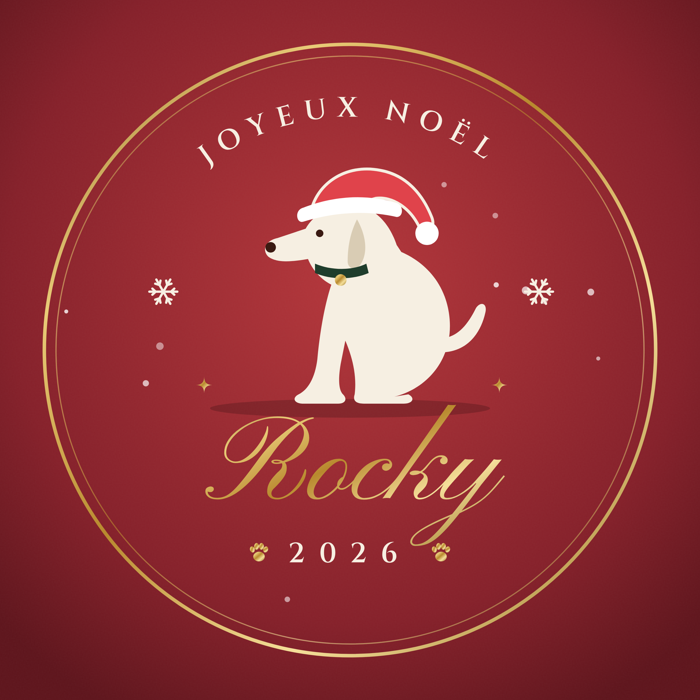
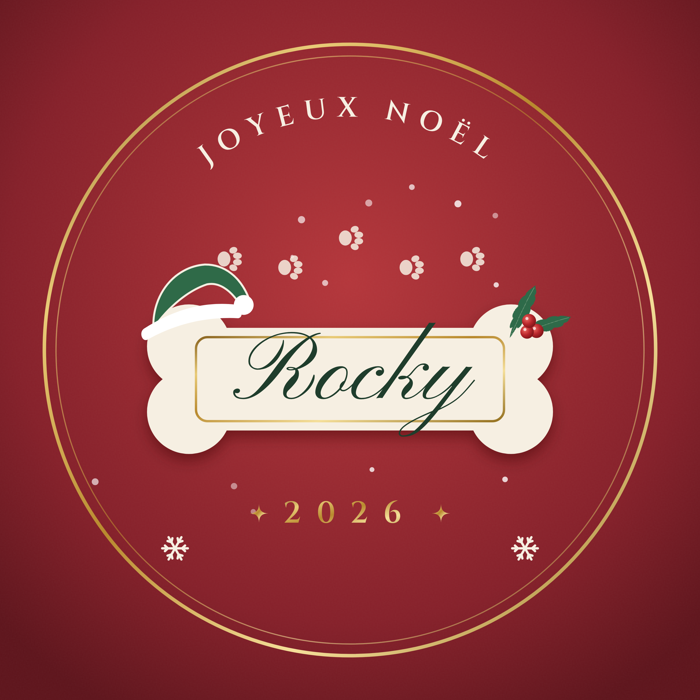
Médaillon chien : os + traces de pattes (toutes races)
Claude-Session: https://claude.ai/code/session_014GDdWm3BuH8EgZGK2oQs5J

diff --git a/designs/nouveaux/generer.js b/designs/nouveaux/generer.js
@@ -86,30 +86,35 @@ const paper = (bg) => `<rect width="600" height="600" fill="${bg}"/><rect width=
 const paw = (x, y, s, fill) => `<g transform="translate(${x} ${y}) scale(${s})" fill="${fill}"><ellipse cx="0" cy="8" rx="13" ry="11"/><ellipse cx="-15" cy="-8" rx="5.5" ry="7" transform="rotate(-20 -15 -8)"/><ellipse cx="-5.5" cy="-15" rx="5.5" ry="7.5"/><ellipse cx="5.5" cy="-15" rx="5.5" ry="7.5"/><ellipse cx="15" cy="-8" rx="5.5" ry="7" transform="rotate(20 15 -8)"/></g>`;
 const DESIGNS = {
   'medaillon-animal': { name: 'Rocky', f: n => { seed = 41;
-    let snow = ''; for (let i = 0; i < 55; i++) { const x = R(40, 560), y = R(40, 560); if (Math.hypot(x - 300, y - 300) < 250 && Math.hypot(x - 300, y - 250) > 120 && !(y > 330 && y < 500) && !(y < 215 && Math.hypot(x - 300, y - 300) > 170)) snow += `<circle cx="${x}" cy="${y}" r="${R(1.5, 3.4)}" fill="#fff" opacity="${R(.35, .85)}"/>`; }
     const C = '#f6efe2';
-    // chien assis de profil, tourné vers la gauche
-    const dog = `<g transform="translate(300 262)">
-      <path d="M38 78 C 70 70 92 40 84 2 C 78 -26 58 -40 44 -46 L 40 -52 C 34 -70 22 -84 4 -86 C -14 -88 -30 -80 -38 -66 L -62 -58 C -72 -56 -76 -48 -70 -42 C -62 -36 -48 -38 -36 -40 C -32 -30 -24 -22 -16 -18 C -22 0 -26 24 -28 46 C -30 62 -36 72 -44 76 C -50 79 -48 84 -40 84 L -10 84 C -4 84 -2 80 -6 76 C -10 72 -10 62 -8 50 L -4 30 C 2 44 6 60 4 76 C 2 82 6 84 12 84 L 46 84 C 54 84 56 79 50 76 Z" fill="${C}"/>
-      <path d="M78 40 C 100 40 112 24 116 6 C 118 -2 112 -4 108 2 C 100 18 92 26 80 28 Z" fill="${C}"/>
-      <path d="M6 -74 C 14 -60 16 -44 8 -34 C 4 -30 -2 -32 -2 -38 C -2 -50 0 -62 6 -74 Z" fill="#d9ccb4"/>
-      <circle cx="-26" cy="-62" r="3.2" fill="#3a1a12"/><circle cx="-68" cy="-50" r="4.5" fill="#3a1a12"/>
-      <path d="M-30 -36 C -16 -30 2 -30 14 -36 L 16 -28 C 2 -22 -16 -22 -30 -28 Z" fill="#1f3d2c"/><circle cx="-8" cy="-22" r="5" fill="url(#gold)"/>
-      <path d="M-34 -78 C -30 -104 -4 -122 26 -116 C 48 -112 62 -96 70 -76 C 74 -66 66 -60 60 -66 C 52 -84 36 -94 22 -92 C 8 -88 -10 -82 -34 -78 Z" fill="#e0434b" stroke="#f6efe2" stroke-width="2.5"/>
-      <path d="M-40 -84 C -14 -94 14 -96 40 -88 C 46 -86 46 -76 40 -76 C 14 -82 -14 -80 -40 -72 C -46 -70 -48 -82 -40 -84 Z" fill="#fff"/>
-      <circle cx="66" cy="-62" r="10" fill="#fff"/>
-    </g>`;
-    return `<defs><radialGradient id="vel" cx=".5" cy=".4" r=".7"><stop offset="0" stop-color="#b5363b"/><stop offset=".7" stop-color="#86202a"/><stop offset="1" stop-color="#5e141c"/></radialGradient></defs>
+    let snow = ''; for (let i = 0; i < 60; i++) { const x = R(40, 560), y = R(40, 560); if (Math.hypot(x - 300, y - 300) < 250 && !(y > 250 && y < 400) && !(y < 215 && Math.hypot(x - 300, y - 300) > 170) && !(y > 440)) snow += `<circle cx="${x}" cy="${y}" r="${R(1.5, 3.4)}" fill="#fff" opacity="${R(.35, .85)}"/>`; }
+    // traces de pattes qui traversent en arc
+    let trail = ''; for (let i = 0; i < 5; i++) { const t = i / 4, x = 196 + t * 208, y = 232 - Math.sin(t * Math.PI) * 18 + (i % 2 ? 10 : -10); trail += `<g transform="rotate(90 ${x} ${y})">${paw(x, y, .5, C + 'd9')}</g>`; }
+    // os : barre + 4 boules
+    const bx = 300, by = 325, hw = 138, hh = 44, r = 36;
+    const bone = `<g filter="url(#bsh)">
+      <rect x="${bx - hw}" y="${by - hh}" width="${hw * 2}" height="${hh * 2}" fill="${C}"/>
+      <circle cx="${bx - hw}" cy="${by - r * .78}" r="${r}" fill="${C}"/><circle cx="${bx - hw}" cy="${by + r * .78}" r="${r}" fill="${C}"/>
+      <circle cx="${bx + hw}" cy="${by - r * .78}" r="${r}" fill="${C}"/><circle cx="${bx + hw}" cy="${by + r * .78}" r="${r}" fill="${C}"/></g>
+      <rect x="${bx - hw + 6}" y="${by - hh + 8}" width="${hw * 2 - 12}" height="${hh * 2 - 16}" rx="10" fill="none" stroke="url(#gold)" stroke-width="2"/>`;
+    // bonnet posé sur la boule gauche du haut
+    const hat = `<g transform="translate(${bx - hw + 2} ${by - r * .78 - 26}) rotate(-12) scale(.85)">
+      <path d="M-40 4 C -34 -30 -6 -52 24 -48 C 44 -44 56 -28 60 -8 C 62 2 54 6 50 -2 C 44 -18 34 -28 22 -28 C 4 -26 -18 -16 -40 4 Z" fill="#2f6a48" stroke="${C}" stroke-width="2"/>
+      <path d="M-48 2 C -16 -10 16 -12 46 -2 C 52 0 52 12 46 12 C 16 4 -16 4 -48 14 C -54 16 -56 4 -48 2 Z" fill="#fff"/>
+      <circle cx="54" cy="0" r="10" fill="#fff"/></g>`;
+    const sprig = `${holly(bx + hw + 10, by - r * .78 - 30, 22, 30, '#2f6a48')}${holly(bx + hw + 30, by - r * .78 - 18, 20, 75, '#2f6a48')}${berries(bx + hw + 16, by - r * .78 - 18, 3, 6)}`;
+    return `<defs><radialGradient id="vel" cx=".5" cy=".4" r=".7"><stop offset="0" stop-color="#b5363b"/><stop offset=".7" stop-color="#86202a"/><stop offset="1" stop-color="#5e141c"/></radialGradient>
+      <filter id="bsh" x="-20%" y="-40%" width="140%" height="180%"><feDropShadow dx="0" dy="6" stdDeviation="6" flood-color="#3a0a10" flood-opacity=".45"/></filter></defs>
     <rect width="600" height="600" fill="url(#vel)"/><rect width="600" height="600" filter="url(#grain)" opacity=".6"/>
     <circle cx="300" cy="300" r="262" fill="none" stroke="url(#gold)" stroke-width="3"/><circle cx="300" cy="300" r="252" fill="none" stroke="url(#gold)" stroke-width="1" opacity=".6"/>
     ${snow}
     ${T.arc('a1', 200, true, 300)}${T.arcText('a1', 'JOYEUX NOËL', 24, C, .35)}
-    <ellipse cx="300" cy="350" rx="120" ry="8" fill="#000" opacity=".18"/>
-    ${dog}
-    ${T.script(300, 428, n, scriptSize(n, 104), 'url(#gold)')}
-    ${T.caps(300, 482, '2026', 24, C, .5)}
-    ${paw(222, 474, .38, 'url(#gold)')}${paw(378, 474, .38, 'url(#gold)')}
-    ${flake(140, 250, 12, C, 2)}${flake(462, 250, 12, C, 2)}${sparkle(175, 330, 7)}${sparkle(428, 330, 7)}`; } },
+    ${trail}
+    ${bone}${hat}${sprig}
+    ${T.script(300, 342, n, scriptSize(n, 84), '#1f3d2c')}
+    ${T.caps(300, 448, '2026', 26, 'url(#gold)', .5)}
+    ${sparkle(222, 440, 8)}${sparkle(378, 440, 8)}
+    ${flake(150, 470, 11, C, 2)}${flake(450, 470, 11, C, 2)}`; } },
 };
 
 // plaid 50x60 pouces, portrait
